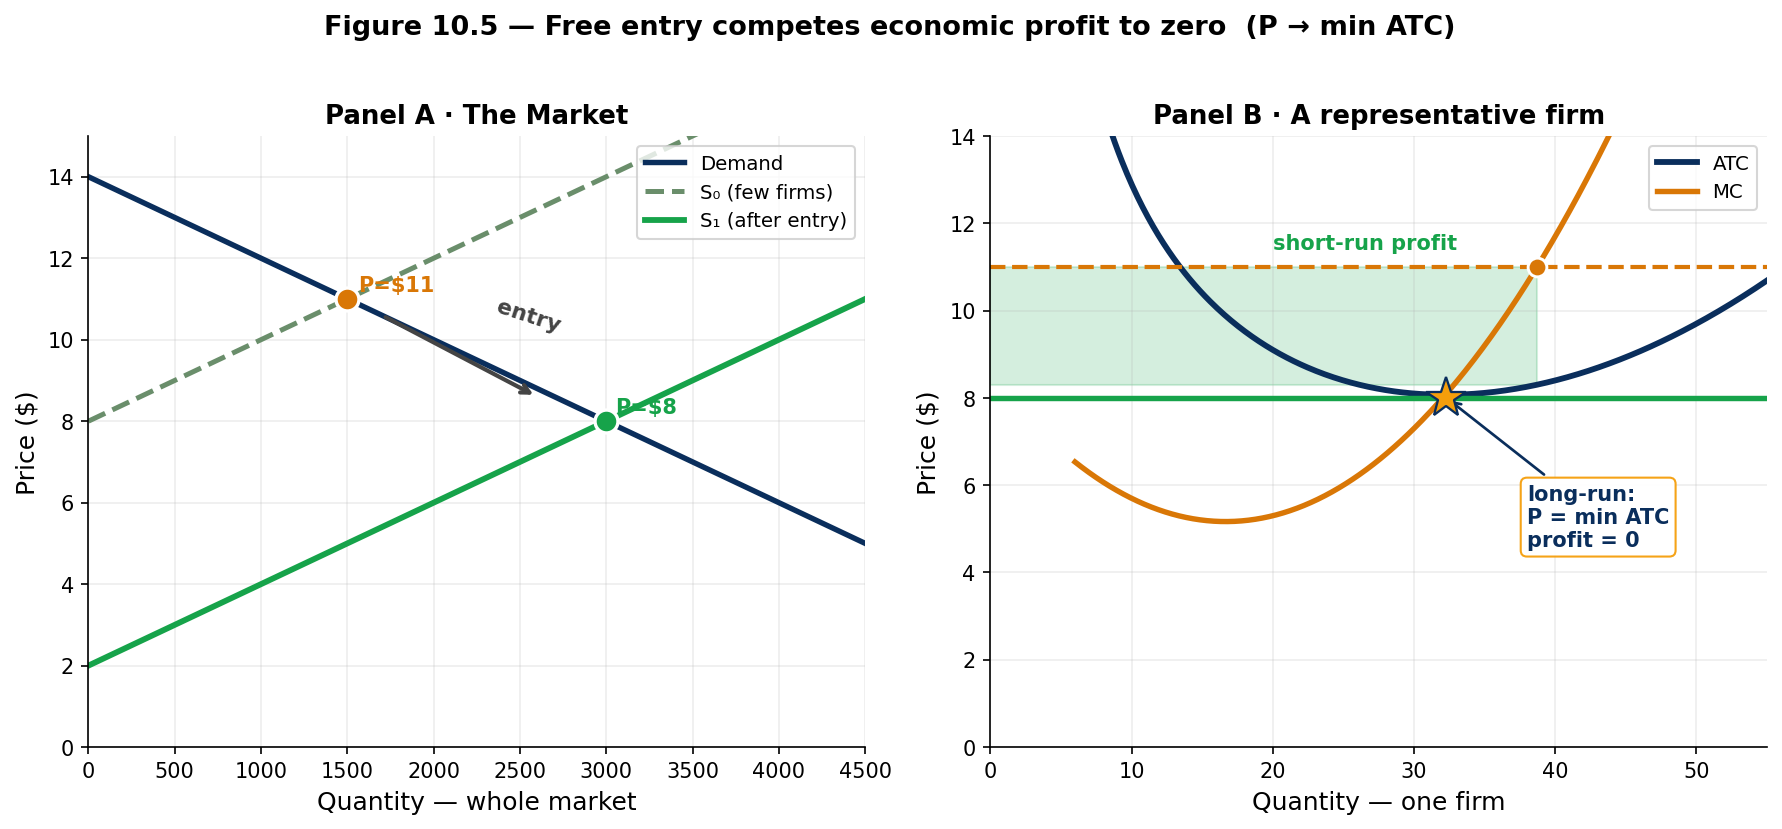
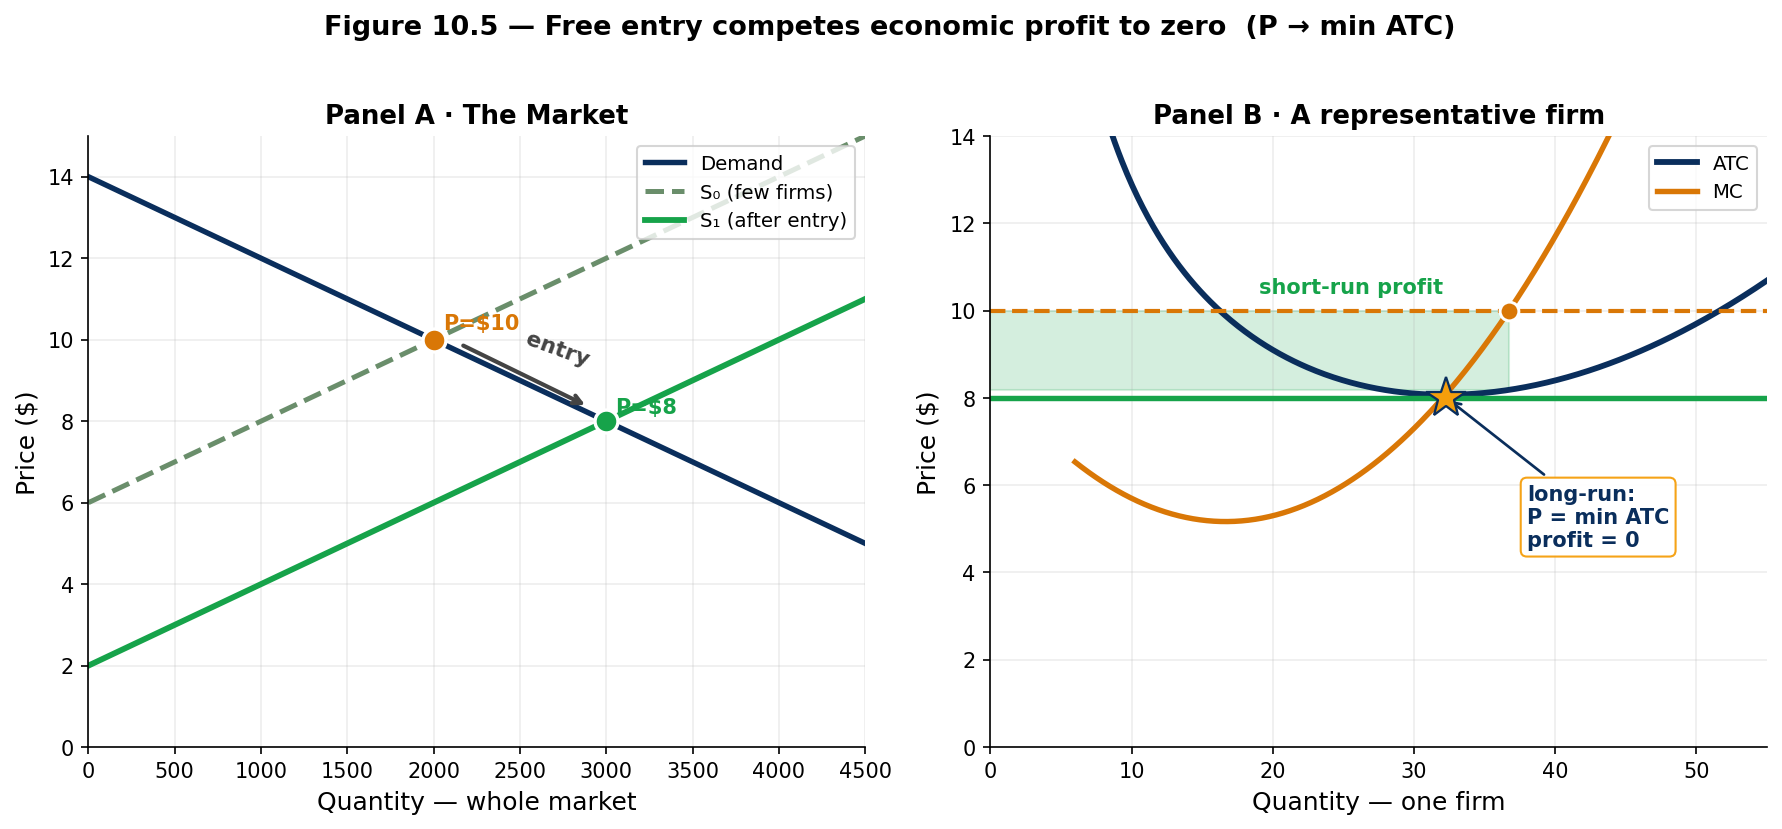
ch10: add SR positive-profit slide + dorm clipping; align entry arc to $10
- p76 (Entry/Exit intro): swap generic revolving-door clipart for the real
  Huntington News clipping (NEU's approved 1,370-bed dorm) — the concrete demand
  shock the slide narrates; drop the inconsistent $120; move the entry-process
  text to the entry-drives-profit slide.
- NEW slide 'In the Short Run: Positive Economic Profit' (fig-sr-profit.png):
  two panels — market demand shift D0->D1 lifts price $8->$10; the firm produces
  where MC=$10 and earns the green profit rectangle (P>ATC).
- Align fig-entry-exit (entry slide) from $11->$8 to $10->$8 so the firm panel
  matches the new SR-profit slide and the arc reads $8 -> shock -> $10 -> entry
  -> $8. Move the 'Entrepreneurs see the profit...' narrative onto that slide.
- Deck now 93 slides.

diff --git a/econ1116/ch10-perfect-competition/index.html b/econ1116/ch10-perfect-competition/index.html
@@ -1423,14 +1423,26 @@
  <div style="display: grid; grid-template-columns: 1fr 0.85fr; gap: 20px; align-items: center;">
   <div>
    <p style="font-size: 13.5pt;">Start in long-run equilibrium: every shop earns <strong>zero economic profit</strong> (owners earn exactly their next-best alternative). Nobody enters, nobody leaves.</p>
-   <p style="font-size: 13pt; margin-top: 6px;">A new dorm opens &rarr; demand shifts right &rarr; price rises $8&rarr;$10 &rarr; Alex now earns <strong>$120.</strong> <strong>That&rsquo;s the signal.</strong></p>
-   <div class="key-result"><p>Entrepreneurs see the profit &rarr; new shops open &rarr; supply shifts right &rarr; price falls &rarr; back to <strong>zero profit.</strong> Overshoot? Some exit, price rises. It settles.</p></div>
+   <p style="font-size: 13pt; margin-top: 6px;">A new dorm opens &rarr; demand shifts right &rarr; price rises $8&rarr;$10, so Alex now earns a <strong>positive economic profit</strong> (next slide). <strong>That&rsquo;s the signal.</strong></p>
   </div>
   <div style="text-align: center;">
-   <img alt="Entry and exit as a revolving door" src="figures/ch10-entry-exit.png" style="max-width: 100%; max-height: 350px; object-fit: contain; border-radius: 8px; box-shadow: 0 2px 10px rgba(0,0,0,0.10);">
+   <img alt="The Huntington News: Northeastern receives go-ahead to build a 1,370-bed residence hall on Columbus Avenue" src="figures/news_new_dorm.png" style="max-width: 100%; max-height: 430px; object-fit: contain; border-radius: 8px; box-shadow: 0 2px 12px rgba(0,0,0,0.14);">
+   <p style="font-size: 10.5pt; color: var(--muted-color); margin: 5px 0 0;">A real demand shock near campus: <strong>1,370 new students</strong> &rarr; more pizza demand &rarr; profit &rarr; entry.</p>
   </div>
  </div>
- <aside class="notes">Long-run analysis = let the number of firms change. Positive profit is a magnet for entry; losses drive exit. The &ldquo;dance&rdquo; around equilibrium is the invisible hand &mdash; no planner, just profit signals. Zero ECONOMIC profit (not accounting) is the resting point.</aside>
+ <aside class="notes">Long-run analysis = let the number of firms change. Positive profit is a magnet for entry; losses drive exit. The &ldquo;dance&rdquo; around equilibrium is the invisible hand &mdash; no planner, just profit signals. Zero ECONOMIC profit (not accounting) is the resting point. The dorm clipping (Huntington News, Mar 2024 &mdash; NEU&rsquo;s approved 1,370-bed hall on Columbus Ave) is the concrete, local version of the &ldquo;a new dorm opens &rarr; demand shifts right&rdquo; trigger in the text: more students raise pizza demand, push price above min ATC, and that economic profit is the entry signal.</aside>
+</section>
+
+<!-- short-run positive economic profit (demand shock) -->
+<section id="sr-profit">
+ <h2><i class="fa-solid fa-arrow-trend-up" style="color: var(--success-color);"></i> In the Short Run: Positive Economic Profit</h2>
+ <div style="flex:1; display:flex; flex-direction:column; align-items:center; justify-content:center; gap:6px; min-height:0;">
+  <img src="figures/fig-sr-profit.png" alt="Two panels: a rightward demand shift lifts the market price from $8 to $10; the representative firm now produces where MC=$10 and earns a green profit rectangle between ATC and the price" style="max-width:100%; max-height:400px;">
+ </div>
+ <div style="background:rgba(106,142,107,0.12); border-radius:8px; border-left:4px solid var(--success-color); padding:9px 18px; margin-top:6px;">
+  <p style="font-size:13.5pt; margin:0;">A new dorm opens &rarr; <strong>demand shifts right</strong> (D&#8320;&rarr;D&#8321;) &rarr; price rises <strong>$8 &rarr; $10</strong>. The firm produces where <strong>MC = $10</strong>, and since <strong>P &gt; ATC</strong> it pockets the green <strong>profit</strong> rectangle.</p>
+ </div>
+ <aside class="notes">The short-run snapshot BEFORE entry. A rightward demand shock (the new dorm) lifts the market price from the long-run resting point ($8 = min ATC) up to $10. The price-taking firm responds by sliding up its MC curve to the new quantity where MC = $10; because price now sits above ATC, it earns a positive economic profit (green rectangle = (P &minus; ATC) &times; Q). That profit is exactly the entry signal &mdash; the next slide shows entry competing it back down to $8. The firm panel here matches page 77 panel B (both at $10), so the arc reads cleanly $8 &rarr; demand shock &rarr; $10 profit &rarr; entry &rarr; $8.</aside>
 </section>
 
 <!-- entry/exit chart -->
@@ -1441,8 +1453,8 @@
    <img alt="Two-panel: market supply shifting right from entry, firm profit shrinking to zero at min ATC" src="figures/fig-entry-exit.png" style="max-width: 100%; max-height: 350px; object-fit: contain;">
   </div>
   <div>
-   <p style="font-size: 13.5pt;"><strong>Left:</strong> entry shifts market supply right (S&#8320;&rarr;S&#8321;), price falls $11&rarr;$8.</p>
-   <p style="font-size: 13.5pt; margin-top: 6px;"><strong>Right:</strong> the firm&rsquo;s green profit rectangle shrinks until <strong>P = min ATC</strong> &mdash; the gold star &mdash; where profit = 0.</p>
+   <p style="font-size: 13pt;">Entrepreneurs see the profit &rarr; new shops open &rarr; supply shifts right &rarr; price falls &rarr; back to <strong>zero profit.</strong> Overshoot? Some exit, price rises. It settles.</p>
+   <p style="font-size: 13pt; margin-top: 8px;"><strong>In the panels:</strong> entry shifts market supply right (S&#8320;&rarr;S&#8321;), price falls <strong>$10&rarr;$8</strong>; the firm&rsquo;s green profit rectangle shrinks to zero at <strong>P = min ATC</strong> (gold star).</p>
    <div class="key-result"><p>The market ends at the price where every surviving firm sits at the <strong>bottom of its ATC curve</strong> &mdash; its efficient scale.</p></div>
   </div>
  </div>

diff --git a/econ1116/ch10-perfect-competition/presentation.html b/econ1116/ch10-perfect-competition/presentation.html
@@ -1423,14 +1423,26 @@
  <div style="display: grid; grid-template-columns: 1fr 0.85fr; gap: 20px; align-items: center;">
   <div>
    <p style="font-size: 13.5pt;">Start in long-run equilibrium: every shop earns <strong>zero economic profit</strong> (owners earn exactly their next-best alternative). Nobody enters, nobody leaves.</p>
-   <p style="font-size: 13pt; margin-top: 6px;">A new dorm opens &rarr; demand shifts right &rarr; price rises $8&rarr;$10 &rarr; Alex now earns <strong>$120.</strong> <strong>That&rsquo;s the signal.</strong></p>
-   <div class="key-result"><p>Entrepreneurs see the profit &rarr; new shops open &rarr; supply shifts right &rarr; price falls &rarr; back to <strong>zero profit.</strong> Overshoot? Some exit, price rises. It settles.</p></div>
+   <p style="font-size: 13pt; margin-top: 6px;">A new dorm opens &rarr; demand shifts right &rarr; price rises $8&rarr;$10, so Alex now earns a <strong>positive economic profit</strong> (next slide). <strong>That&rsquo;s the signal.</strong></p>
   </div>
   <div style="text-align: center;">
-   <img alt="Entry and exit as a revolving door" src="figures/ch10-entry-exit.png" style="max-width: 100%; max-height: 350px; object-fit: contain; border-radius: 8px; box-shadow: 0 2px 10px rgba(0,0,0,0.10);">
+   <img alt="The Huntington News: Northeastern receives go-ahead to build a 1,370-bed residence hall on Columbus Avenue" src="figures/news_new_dorm.png" style="max-width: 100%; max-height: 430px; object-fit: contain; border-radius: 8px; box-shadow: 0 2px 12px rgba(0,0,0,0.14);">
+   <p style="font-size: 10.5pt; color: var(--muted-color); margin: 5px 0 0;">A real demand shock near campus: <strong>1,370 new students</strong> &rarr; more pizza demand &rarr; profit &rarr; entry.</p>
   </div>
  </div>
- <aside class="notes">Long-run analysis = let the number of firms change. Positive profit is a magnet for entry; losses drive exit. The &ldquo;dance&rdquo; around equilibrium is the invisible hand &mdash; no planner, just profit signals. Zero ECONOMIC profit (not accounting) is the resting point.</aside>
+ <aside class="notes">Long-run analysis = let the number of firms change. Positive profit is a magnet for entry; losses drive exit. The &ldquo;dance&rdquo; around equilibrium is the invisible hand &mdash; no planner, just profit signals. Zero ECONOMIC profit (not accounting) is the resting point. The dorm clipping (Huntington News, Mar 2024 &mdash; NEU&rsquo;s approved 1,370-bed hall on Columbus Ave) is the concrete, local version of the &ldquo;a new dorm opens &rarr; demand shifts right&rdquo; trigger in the text: more students raise pizza demand, push price above min ATC, and that economic profit is the entry signal.</aside>
+</section>
+
+<!-- short-run positive economic profit (demand shock) -->
+<section id="sr-profit">
+ <h2><i class="fa-solid fa-arrow-trend-up" style="color: var(--success-color);"></i> In the Short Run: Positive Economic Profit</h2>
+ <div style="flex:1; display:flex; flex-direction:column; align-items:center; justify-content:center; gap:6px; min-height:0;">
+  <img src="figures/fig-sr-profit.png" alt="Two panels: a rightward demand shift lifts the market price from $8 to $10; the representative firm now produces where MC=$10 and earns a green profit rectangle between ATC and the price" style="max-width:100%; max-height:400px;">
+ </div>
+ <div style="background:rgba(106,142,107,0.12); border-radius:8px; border-left:4px solid var(--success-color); padding:9px 18px; margin-top:6px;">
+  <p style="font-size:13.5pt; margin:0;">A new dorm opens &rarr; <strong>demand shifts right</strong> (D&#8320;&rarr;D&#8321;) &rarr; price rises <strong>$8 &rarr; $10</strong>. The firm produces where <strong>MC = $10</strong>, and since <strong>P &gt; ATC</strong> it pockets the green <strong>profit</strong> rectangle.</p>
+ </div>
+ <aside class="notes">The short-run snapshot BEFORE entry. A rightward demand shock (the new dorm) lifts the market price from the long-run resting point ($8 = min ATC) up to $10. The price-taking firm responds by sliding up its MC curve to the new quantity where MC = $10; because price now sits above ATC, it earns a positive economic profit (green rectangle = (P &minus; ATC) &times; Q). That profit is exactly the entry signal &mdash; the next slide shows entry competing it back down to $8. The firm panel here matches page 77 panel B (both at $10), so the arc reads cleanly $8 &rarr; demand shock &rarr; $10 profit &rarr; entry &rarr; $8.</aside>
 </section>
 
 <!-- entry/exit chart -->
@@ -1441,8 +1453,8 @@
    <img alt="Two-panel: market supply shifting right from entry, firm profit shrinking to zero at min ATC" src="figures/fig-entry-exit.png" style="max-width: 100%; max-height: 350px; object-fit: contain;">
   </div>
   <div>
-   <p style="font-size: 13.5pt;"><strong>Left:</strong> entry shifts market supply right (S&#8320;&rarr;S&#8321;), price falls $11&rarr;$8.</p>
-   <p style="font-size: 13.5pt; margin-top: 6px;"><strong>Right:</strong> the firm&rsquo;s green profit rectangle shrinks until <strong>P = min ATC</strong> &mdash; the gold star &mdash; where profit = 0.</p>
+   <p style="font-size: 13pt;">Entrepreneurs see the profit &rarr; new shops open &rarr; supply shifts right &rarr; price falls &rarr; back to <strong>zero profit.</strong> Overshoot? Some exit, price rises. It settles.</p>
+   <p style="font-size: 13pt; margin-top: 8px;"><strong>In the panels:</strong> entry shifts market supply right (S&#8320;&rarr;S&#8321;), price falls <strong>$10&rarr;$8</strong>; the firm&rsquo;s green profit rectangle shrinks to zero at <strong>P = min ATC</strong> (gold star).</p>
    <div class="key-result"><p>The market ends at the price where every surviving firm sits at the <strong>bottom of its ATC curve</strong> &mdash; its efficient scale.</p></div>
   </div>
  </div>
